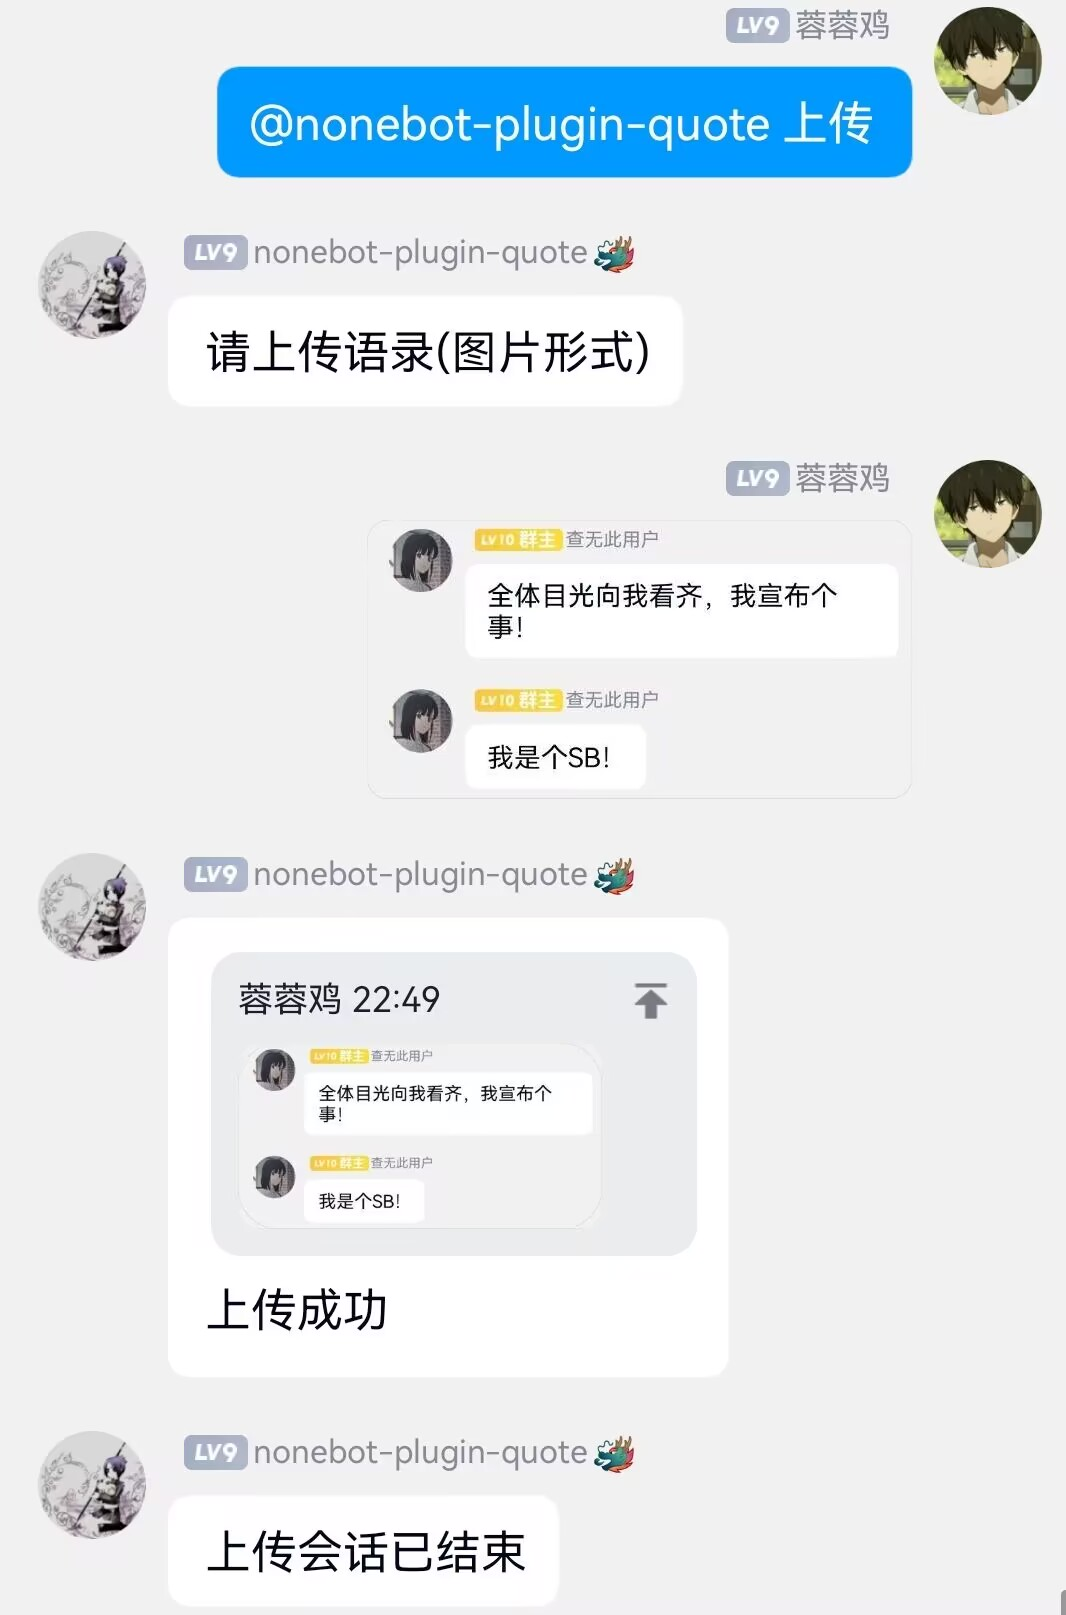
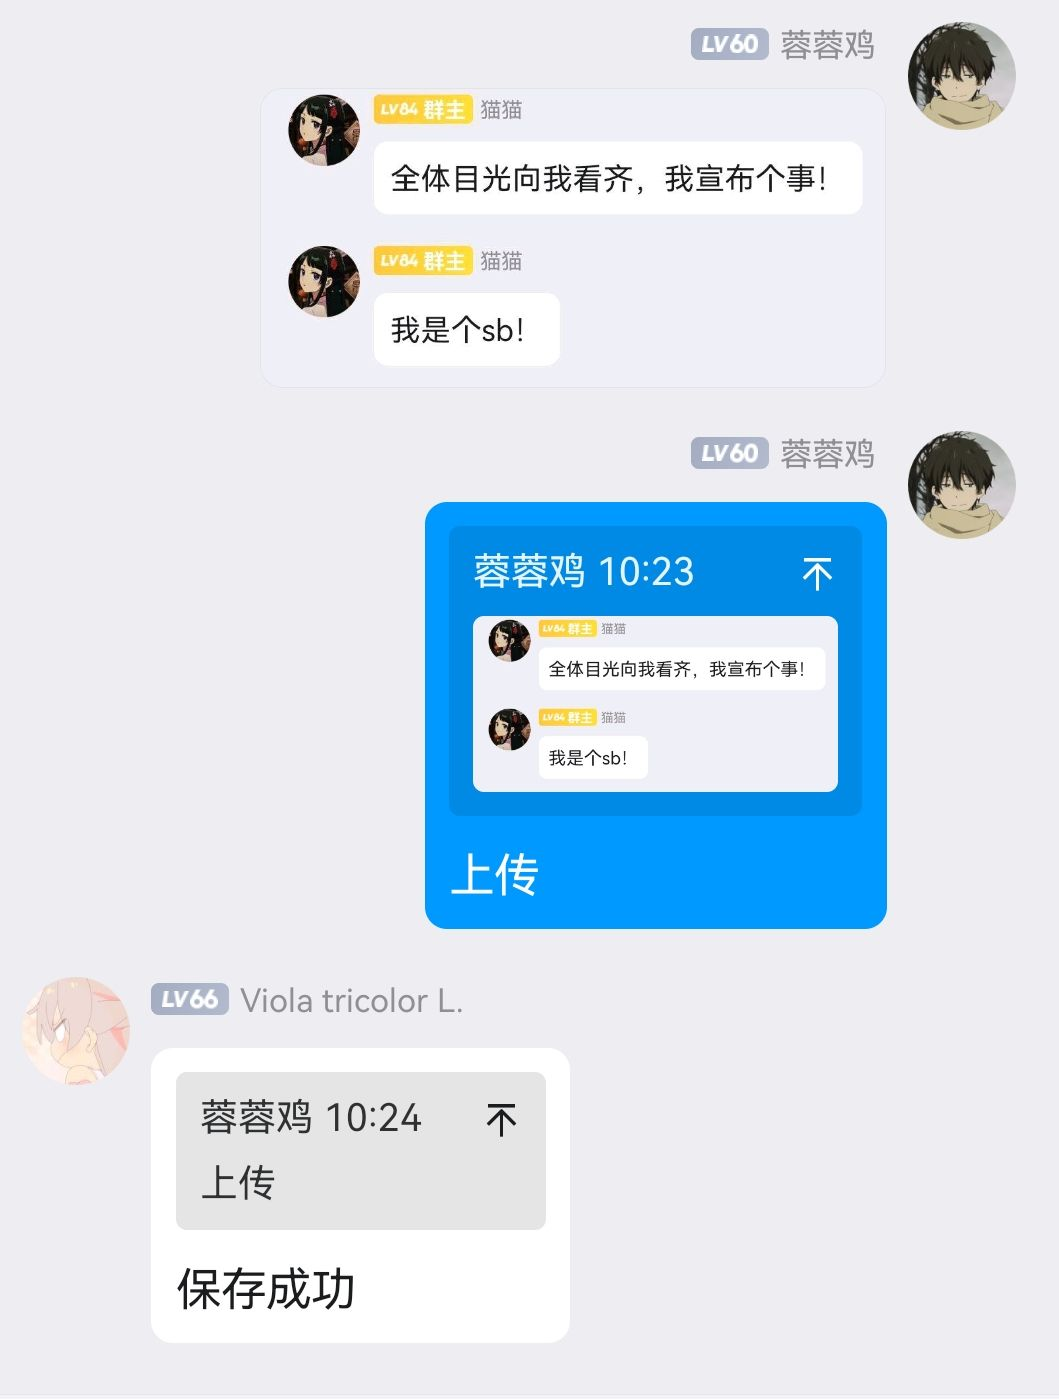
update v0.4.0: 上传功能改版

diff --git a/nonebot_plugin_quote/__init__.py b/nonebot_plugin_quote/__init__.py
@@ -23,7 +23,7 @@ import hashlib
 import uuid
 from .make_image import generate_quote_image
 
-# v0.3.9
+# v0.4.0
 
 __plugin_meta__ = PluginMetadata(
     name='群聊语录库',
@@ -35,7 +35,7 @@ __plugin_meta__ = PluginMetadata(
     supported_adapters={"~onebot.v11"},
     extra={
         'author': 'RongRongJi',
-        'version': 'v0.3.9',
+        'version': 'v0.4.0',
     },
 )
 
@@ -121,62 +121,48 @@ async def reply_handle(bot, errMsg, raw_message, groupNum, user_id, listener):
     return file_name
 
  # 语录库
-record = on_command("{}上传".format(plugin_config.quote_startcmd), priority=10, block=True, rule=to_me())
-end_conversation = ['stop', '结束', '上传结束', '结束上传']
 
-@record.handle()
-async def _(event: MessageEvent, args: Message = CommandArg()):
-    if isinstance(event, PrivateMessageEvent):
-        await record.finish()
+save_img = on_regex(pattern="^{}上传$".format(re.escape(plugin_config.quote_startcmd)), **need_at)
 
-    plain_text = args.extract_plain_text()
-    if plain_text:
-        record.set_arg("prompt", message=args)
+@save_img.handle()
+async def save_img_handle(bot: Bot, event: MessageEvent, state: T_State):
 
-
-@record.got("prompt", prompt="请上传语录(图片形式)")
-async def record_upload(bot: Bot, event: MessageEvent, prompt: Message = Arg(), msg: Message = Arg("prompt")):
+    session_id = event.get_session_id()
+    message_id = event.message_id
 
     global inverted_index
     global record_dict
     global forward_index
 
-    session_id = event.get_session_id()
-    message_id = event.message_id
-
-    if str(msg) in end_conversation:
-        await record.finish('上传会话已结束')
-
-    files = msg["image"][0].data["file"]
-
-    logger.debug(files)
-
-    if not os.path.exists(quote_path):
-        os.makedirs(quote_path)
-
-    if len(files) == 0:
-        resp = "请上传图片"
-        await record.reject_arg('prompt', MessageSegment.reply(message_id) + resp)
+    if event.reply:
+        raw_message = str(event.reply.message)
+        match = re.search(r'file=([^,]+)', raw_message)
+        if match:
+            file_name = match.group(1).strip('"\'')
+        else:
+            await make_record.finish("未检测到图片，请回复所需上传的图片消息来上传语录")
     else:
-        try:
-            resp = await bot.call_api('get_image', **{'file': files})
-            image_path = resp['file']
-            shutil.copy(image_path, os.path.join(quote_path, os.path.basename(image_path)))
-            
-        except Exception as e:
-            logger.warning(f"bot.call_api 失败，可能在使用Lagrange，使用 httpx 进行下载: {e}")
-            async with httpx.AsyncClient() as client:
-                image_url = msg['image'][0].data['url']
-                response = await client.get(image_url)
-                if response.status_code == 200:
-                    random_filename = f"{uuid.uuid4().hex}.png"
-                    image_path = os.path.join(quote_path, random_filename)
-                    with open(image_path, "wb") as f:
-                        f.write(response.content)
-                    resp = {"file": image_path}
-                else:
-                    raise Exception("httpx 下载失败")
+        await make_record.finish("请回复所需上传的图片消息来上传语录")
 
+    try:
+        resp = await bot.call_api('get_image', **{'file': file_name})
+        image_path = resp['file']
+        shutil.copy(image_path, os.path.join(quote_path, os.path.basename(image_path)))
+    
+    except Exception as e:
+        logger.warning(f"bot.call_api 失败，可能在使用Lagrange，使用 httpx 进行下载: {e}")
+        async with httpx.AsyncClient() as client:
+            image_url = msg['image'][0].data['url']
+            response = await client.get(image_url)
+            if response.status_code == 200:
+                random_filename = f"{uuid.uuid4().hex}.png"
+                image_path = os.path.join(quote_path, random_filename)
+                with open(image_path, "wb") as f:
+                    f.write(response.content)
+                resp = {"file": image_path}
+            else:
+                raise Exception("httpx 下载失败")
+    
     image_path = os.path.abspath(os.path.join(quote_path, os.path.basename(image_path)))
     logger.info(f"图片已保存到 {image_path}")
     # OCR分词
@@ -216,9 +202,8 @@ async def record_upload(bot: Bot, event: MessageEvent, prompt: Message = Arg(), 
 
     await bot.call_api('send_group_msg', **{
             'group_id': int(groupNum),
-            'message': MessageSegment.reply(message_id) + '上传成功'
+            'message': MessageSegment.reply(message_id) + '保存成功'
         })
-    await record.finish('上传会话已结束')
 
 
 record_pool = on_startswith('{}语录'.format(plugin_config.quote_startcmd), priority=2, block=True, **need_at)
@@ -284,7 +269,7 @@ async def record_help_handle(bot: Bot, event: Event, state: T_State):
     if '怎么用' not in raw_msg and '如何' not in raw_msg:
         await record_help.finish()
 
-    msg = '''您可以通过at我+上传, 开启上传语录通道; 再发送图片上传语录。您也可以直接发送【语录】指令, 我将随机返回一条语录。'''
+    msg = '''您可以通过回复指定图片, 发送【上传】指令上传语录。您也可以直接发送【语录】指令, 我将随机返回一条语录。'''
 
     if 'group' in session_id:
         tmpList = session_id.split('_')
@@ -372,7 +357,7 @@ async def alltag_handle(bot: Bot, event: Event, state: T_State):
 
     await alltag.finish(group_id=int(groupNum), message=MessageSegment.at(user_id) + msg)
 
-addtag = on_regex(pattern="^{}addtag\ ".format(plugin_config.quote_startcmd), **need_at)
+addtag = on_regex(pattern="^{}addtag\ ".format(re.escape(plugin_config.quote_startcmd)), **need_at)
 
 @addtag.handle()
 async def addtag_handle(bot: Bot, event: Event, state: T_State):
@@ -406,7 +391,7 @@ async def addtag_handle(bot: Bot, event: Event, state: T_State):
     await addtag.finish(group_id=int(groupNum), message=MessageSegment.at(user_id) + msg)
 
 
-deltag = on_regex(pattern="^{}deltag\ ".format(plugin_config.quote_startcmd), **need_at)
+deltag = on_regex(pattern="^{}deltag\ ".format(re.escape(plugin_config.quote_startcmd)), **need_at)
 
 @deltag.handle()
 async def deltag_handle(bot: Bot, event: Event, state: T_State):
@@ -439,7 +424,7 @@ async def deltag_handle(bot: Bot, event: Event, state: T_State):
     await deltag.finish(group_id=int(groupNum), message=MessageSegment.at(user_id) + msg)
 
 
-make_record = on_regex(pattern="^{}记录$".format(plugin_config.quote_startcmd))
+make_record = on_regex(pattern="^{}记录$".format(re.escape(plugin_config.quote_startcmd)))
 
 @make_record.handle()
 async def make_record_handle(bot: Bot, event: MessageEvent, state: T_State):
@@ -456,7 +441,7 @@ async def make_record_handle(bot: Bot, event: MessageEvent, state: T_State):
     if event.reply:
         size = 640
         qqid = event.reply.sender.user_id
-        raw_message = event.reply.message.extract_plain_text()
+        raw_message = event.reply.message.extract_plain_text().strip()
         card = event.reply.sender.card if event.reply.sender.card != '' else event.reply.sender.nickname
         session_id = event.get_session_id()
     else:
@@ -524,7 +509,7 @@ async def make_record_handle(bot: Bot, event: MessageEvent, state: T_State):
         await make_record.send('空内容')
     await make_record.finish()
 
-render_quote = on_regex(pattern="^{}生成$".format(plugin_config.quote_startcmd))
+render_quote = on_regex(pattern="^{}生成$".format(re.escape(plugin_config.quote_startcmd)))
 
 @render_quote.handle()
 async def render_quote_handle(bot: Bot, event: MessageEvent, state: T_State):
@@ -541,7 +526,7 @@ async def render_quote_handle(bot: Bot, event: MessageEvent, state: T_State):
     if event.reply:
         size = 640
         qqid = event.reply.sender.user_id
-        raw_message = event.reply.message.extract_plain_text()
+        raw_message = event.reply.message.extract_plain_text().strip()
         card = event.reply.sender.card if event.reply.sender.card != '' else event.reply.sender.nickname
         session_id = event.get_session_id()
     else:
@@ -582,90 +567,10 @@ async def render_quote_handle(bot: Bot, event: MessageEvent, state: T_State):
 
     await render_quote.finish()
 
-save_img = on_regex(pattern="^{}保存$".format(re.escape(plugin_config.quote_startcmd)))
-
-@save_img.handle()
-async def save_img_handle(bot: Bot, event: MessageEvent, state: T_State):
-
-    session_id = event.get_session_id()
-    message_id = event.message_id
-
-    global inverted_index
-    global record_dict
-    global forward_index
-
-    if event.reply:
-        raw_message = str(event.reply.message)
-        match = re.search(r'file=([^,]+)', raw_message)
-        if match:
-            file_name = match.group(1).strip('"\'')
-        else:
-            await make_record.finish("未检测到图片")
-    else:
-        await make_record.finish("请回复所需的图片消息")
-
-    try:
-        resp = await bot.call_api('get_image', **{'file': file_name})
-        image_path = resp['file']
-        shutil.copy(image_path, os.path.join(quote_path, os.path.basename(image_path)))
-    
-    except Exception as e:
-        logger.warning(f"bot.call_api 失败，可能在使用Lagrange，使用 httpx 进行下载: {e}")
-        async with httpx.AsyncClient() as client:
-            image_url = msg['image'][0].data['url']
-            response = await client.get(image_url)
-            if response.status_code == 200:
-                random_filename = f"{uuid.uuid4().hex}.png"
-                image_path = os.path.join(quote_path, random_filename)
-                with open(image_path, "wb") as f:
-                    f.write(response.content)
-                resp = {"file": image_path}
-            else:
-                raise Exception("httpx 下载失败")
-    
-    image_path = os.path.abspath(os.path.join(quote_path, os.path.basename(image_path)))
-    logger.info(f"图片已保存到 {image_path}")
-    # OCR分词
-    # 初始化PaddleOCR
-    ocr = PaddleOCR(use_angle_cls=True, lang='ch')
-    try:
-        # 使用PaddleOCR进行OCR识别
-        ocr_result = ocr.ocr(image_path, cls=True)
-        # 处理OCR识别结果
-        ocr_content = ''
-        for line in ocr_result:
-            for word in line:
-                ocr_content += word[1][0] + ' '
-    except Exception as e:
-        ocr_content = ''
-        print(f"OCR识别失败: {e}")
 
 
-    if 'group' in session_id:
-        tmpList = session_id.split('_')
-        groupNum = tmpList[1]
 
-        inverted_index, forward_index = offer(groupNum, image_path, ocr_content, inverted_index, forward_index)
-
-        if groupNum not in record_dict:
-            record_dict[groupNum] = [image_path]
-        else:
-            if image_path not in record_dict[groupNum]:
-                record_dict[groupNum].append(image_path)
-
-
-        with open(plugin_config.record_path, 'w', encoding='UTF-8') as f:
-            json.dump(record_dict, f, indent=2, separators=(',', ': '), ensure_ascii=False)
-
-        with open(plugin_config.inverted_index_path, 'w', encoding='UTF-8') as fc:
-            json.dump(inverted_index, fc, indent=2, separators=(',', ': '), ensure_ascii=False)
-
-    await bot.call_api('send_group_msg', **{
-            'group_id': int(groupNum),
-            'message': MessageSegment.reply(message_id) + '保存成功'
-        })
-
-script_batch = on_regex(pattern="^{}batch_upload".format(plugin_config.quote_startcmd), **need_at)
+script_batch = on_regex(pattern="^{}batch_upload".format(re.escape(plugin_config.quote_startcmd)), **need_at)
 
 @script_batch.handle()
 async def script_batch_handle(bot: Bot, event: Event, state: T_State):
@@ -771,7 +676,7 @@ tags=aaa bbb ccc'''
     await bot.send_msg(group_id=int(groupNum), message='批量导入完成')
     await script_batch.finish()
 
-copy_batch = on_regex(pattern="^{}batch_copy".format(plugin_config.quote_startcmd), **need_at)
+copy_batch = on_regex(pattern="^{}batch_copy".format(re.escape(plugin_config.quote_startcmd)), **need_at)
 
 @copy_batch.handle()
 async def copy_batch_handle(bot: Bot, event: Event, state: T_State):

diff --git a/README.md b/README.md
@@ -41,19 +41,12 @@ _✨ QQ群聊 语录库 ✨_
 
 ### 上传
 
-@机器人，发送**上传**指令，开启上传通道。
+以**上传**指令回复图片消息，即可直接将图片上传至语录库中。
 
 以图片的形式发送聊天语录，即可将语录上传至语录库中。
 
 <img src="https://github.com/RongRongJi/nonebot_plugin_quote/raw/main/screenshot/upload.jpg" width="40%" />
 
-直接回复**结束**，即可终止上传通道。
-
-### 保存图片
-
-以**“保存”**回复任意图片消息，即可直接将图片上传至语录库中。
-
-[图片位置]
 
 ### 随机发送语录
 
@@ -96,7 +89,7 @@ _✨ QQ群聊 语录库 ✨_
 
 ### 上传语录式图片
 
-在配置好中文字体路径后，以“命令前缀+**上传**”，回复群内任意一句话，即可生成如下语录体图片，**录入语录库和本地保存**，支持emoji渲染，推荐使用等宽黑体（例如[更纱黑体](https://github.com/be5invis/Iosevka)）以达到最好效果。
+在配置好中文字体路径后，以“命令前缀+**记录**”，回复群内任意一句话，即可生成如下语录体图片，**录入语录库和本地保存**，支持emoji渲染，推荐使用等宽黑体（例如[更纱黑体](https://github.com/be5invis/Iosevka)）以达到最好效果。
 
 <img src="https://github.com/RongRongJi/nonebot_plugin_quote/raw/main/screenshot/auto_record.jpg" width="40%" />
 
@@ -106,9 +99,7 @@ _✨ QQ群聊 语录库 ✨_
 
 | 指令 | 需要@ | 范围 | 说明 |
 |:-----:|:----:|:------:|:-----------:|
-| 上传/开始上传/上传开始 | 必须 | 群聊 | 开启语录上传通道 |
-| 语录上传通道开启后直接发送图片 | 否 | 群聊 | 上传图片至语录库 |
-| 回复图片消息+保存 | 否 | 群聊 | 保存图片消息至语录库 |
+| 上传 | 可选 | 群聊 | 上传图片至语录库 |
 | 语录 + 关键词(可选) | 可选 | 群聊 | 根据关键词返回一个符合要求的图片, 没有关键词时随机返回 |
 | 语录 + #标签 | 可选 | 群聊 | 根据标签返回一个符合要求的图片, 没有关键词时随机返回 |
 | 回复机器人 + 删除 | 可选 | 群聊 | 删除该条语录 |
@@ -283,6 +274,10 @@ nonebot.load_plugins("src/plugins", "nonebot_plugin_quote")
 ### v0.3.9 (2025/2/11)
 
 - 增加自动生成、记录语录图片功能，感谢[Pigz2538](https://github.com/pigz2538)提交
+
+### v0.4.0 (2025/3/12)
+
+- 将上传功能进行改版，直接回复图片上传语录，感谢[Pigz2538](https://github.com/pigz2538)提交
 
 
 </details>
